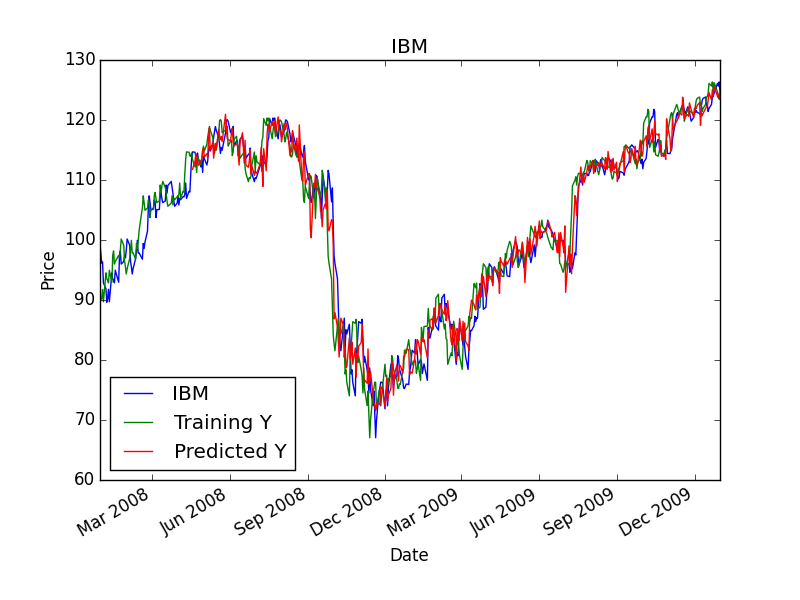
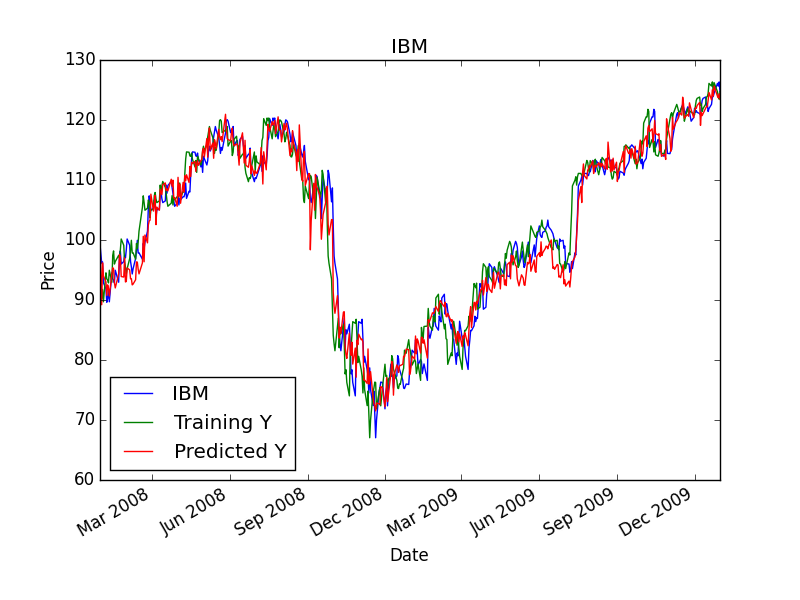
MC3 P2 Good in sample strat plots 1, 2, 3, 6, 7 done

diff --git a/mc3_p2/mc3_p2.py b/mc3_p2/mc3_p2.py
@@ -10,6 +10,112 @@ import LinRegLearner as lrl
 import KNNLearner as knn
 import BagLearner as bl
 
+
+def execute_order(cash, holdings, order, prices):
+    date = dt.datetime.strptime(order['Date'], '%Y-%m-%d')
+    symbol = order['Symbol']
+    order_type = order['Order']
+    shares = order['Shares']
+
+    new_holdings = holdings.copy()
+
+    if date in prices.index:
+        price = prices[[symbol]].loc[date][0]
+        if order_type == 'BUY':
+            new_cash = cash - (price * shares)
+            new_holdings[symbol] = holdings[symbol] + shares
+        else:
+            new_cash = cash + (price * shares)
+            new_holdings[symbol] = holdings[symbol] - shares
+
+    longs = 0
+    shorts = 0
+    for holding in new_holdings:
+        price = prices[[holding]].loc[date][0]
+        if (new_holdings[holding] > 0):
+            longs = longs + price * new_holdings[holding]
+        elif (new_holdings[holding] < 0):
+            shorts = shorts + price * new_holdings[holding]
+
+    leverage = (longs + abs(shorts)) / (longs + shorts + new_cash)
+    # if leverage > 2.0:
+    #     # print("rejected: ", date, symbol, order_type, shares, holdings, cash, leverage, longs, shorts)
+    #     return cash, holdings
+    # else:
+        # print("executed: ", date, symbol, order_type, shares, new_holdings, new_cash, leverage, longs, shorts)
+    return new_cash, new_holdings
+
+def print_stats(start_date, end_date, prices, portvals, sf=252.0, rfr=0.0, baseline_perf=0.3524):
+
+    cum_ret = portvals["Value"].iget(-1)/portvals["Value"].iget(0) - 1
+
+    dr = portvals.copy()
+    dr[1:] = portvals[1:].values / portvals[:-1].values - 1.0
+    dr = dr[1:]
+    avg_daily_ret = dr.mean()
+    std_daily_ret = dr.std()
+    sharpe_ratio = np.sqrt(sf) * np.mean(dr - rfr) / std_daily_ret
+    ev = portvals["Value"].iget(-1)
+
+    print "Date Range: {} to {}".format(start_date, end_date)
+    print
+    print "Sharpe Ratio of Fund: {}".format(sharpe_ratio)
+    # print "Sharpe Ratio of SPY : {}".format(sharpe_ratio_SPY)
+    print
+    print "Cumulative Return of Fund: {}".format(cum_ret)
+    # print "Cumulative Return of SPY : {}".format(cum_ret_SPY)
+    print
+    print "Standard Deviation of Fund: {}".format(std_daily_ret)
+    # print "Standard Deviation of SPY : {}".format(std_daily_ret_SPY)
+    print
+    print "Average Daily Return of Fund: {}".format(avg_daily_ret)
+    # print "Average Daily Return of SPY : {}".format(avg_daily_ret_SPY)
+    print
+    print "Final Portfolio Value: {}".format(portvals["Value"].iget(-1))
+
+    # print
+    # print "Performance vs baseline: {}".format(cum_ret / baseline_perf)
+    # return cum_ret/baseline_perf
+
+
+
+def compute_portvals(orders_file = "./orders/orders.csv", start_val = 1000000, baseline_perf=0.3524):
+    # this is the function the autograder will call to test your code
+    orders = pd.read_csv(orders_file, parse_dates=True)
+
+    start_date = orders['Date'].iloc[0]
+    end_date = orders['Date'].iloc[len(orders)-1]
+    symbols = sorted(set(orders['Symbol']))
+    prices = get_data(symbols, pd.date_range(start_date, end_date))
+
+    cash = start_val
+    holdings = {}
+    for symbol in symbols:
+        holdings[symbol] = 0
+
+    portvals = pd.DataFrame(index=prices.index, columns=['Value'], dtype=np.float64)
+    # print(type(portvals))
+
+    for index in portvals.index:
+
+        # If there are orders on this date, execute them
+        date_orders = orders[orders['Date'] == str(index.date())]
+        for row in date_orders.iterrows():
+            order = row[1]
+            cash, holdings = execute_order(cash, holdings, order, prices)
+
+        # Calculate port val for this date
+        portvals.ix[index] = cash
+        for symbol in holdings:
+            if (holdings[symbol] != 0):
+                price = prices[[symbol]].loc[index.date()][0]
+                portvals.ix[index] = portvals.ix[index] + (price * holdings[symbol])
+        # print(portvals.ix[index])
+
+    performance = print_stats(start_date, end_date, prices, portvals, baseline_perf=baseline_perf)
+
+    return portvals, performance
+
 def add_bb(prices, symbol):
     sma = pd.rolling_mean(prices[symbol], 20, 20)
     prices['bb_normed'] = (prices[symbol] - sma)/(2 * pd.rolling_std(prices[symbol], 20, 20))
@@ -86,10 +192,10 @@ if __name__ == "__main__":
     # test_rows = data.shape[0] - train_rows
 
     # separate out training and testing data
-    trainX = X['20071231':'20091231'][75:]
-    trainY = Y['20071231':'20091231'][75:]
-    testX = X['20091231':'20111231'][75:]
-    testY = Y['20091231':'20111231'][75:]
+    trainX = X['20071231':'20091231']
+    trainY = Y['20071231':'20091231']
+    testX = X['20091231':'20111231']
+    testY = Y['20091231':'20111231']
 
     # print testX.shape
     # print testY.shape
@@ -155,3 +261,91 @@ if __name__ == "__main__":
     # chart.set_ylabel("Price")
     # fig = chart.get_figure()
     # fig.savefig(symbol + "_plot1_oos.png")
+
+    order_chart = prices.plot(title=symbol)
+    order_chart.set_xlabel("Date")
+    order_chart.set_ylabel("Price")
+
+    order_cols = ("Date", "Symbol", "Order", "Shares")
+    orders = pd.DataFrame(columns=order_cols)
+
+    state = 'cash'
+
+    hold = 0
+    for i in xrange(predY.shape[0]):
+        today = prices.index[i]
+        # print(i, today, predY[i])
+
+        if hold > 0:
+            hold = hold - 1
+            continue
+
+        if state == 'cash':
+            if predY[i] > 0.01:
+                state = 'long'
+                chart.axvline(today, color="g")
+                orders.loc[len(orders)]=[today, symbol, "BUY", 100]
+                hold = 5
+            elif predY[i] < -0.01:
+                state = 'short'
+                chart.axvline(today, color="r")
+                orders.loc[len(orders)]=[today, symbol, "SELL", 100]
+                hold = 5
+
+        elif state == 'short':
+            if predY[i] > 0 and predY[i] < 0.01:
+                state = 'cash'
+                chart.axvline(today, color="k")
+                orders.loc[len(orders)]=[today, symbol, "BUY", 100]
+                hold = 5
+            elif predY[i] > 0.01:
+                state = 'long'
+                chart.axvline(today, color="g")
+                orders.loc[len(orders)]=[today, symbol, "BUY", 100]
+                orders.loc[len(orders)]=[today, symbol, "BUY", 100]
+                hold = 5
+
+        else: #long
+            if predY[i] < 0.01 and predY[i] > 0:
+                state = 'cash'
+                chart.axvline(today, color="k")
+                orders.loc[len(orders)]=[today, symbol, "SELL", 100]
+                hold = 5
+            elif predY[i] < -0.01:
+                state = 'short'
+                chart.axvline(today, color="r")
+                orders.loc[len(orders)]=[today, symbol, "SELL", 100]
+                orders.loc[len(orders)]=[today, symbol, "SELL", 100]
+                hold = 5
+
+
+    if state == 'long':
+        orders.loc[len(orders)]=[today, symbol, "SELL", 100]
+        chart.axvline(today, color="k")
+    elif state == 'short':
+        orders.loc[len(orders)]=[today, symbol, "BUY", 100]
+        chart.axvline(today, color="k")
+
+
+    fig = chart.get_figure()
+    fig.savefig(symbol + '_plot2.png')
+    # plt.show()
+
+    baseline_perf=0.3524
+    if len(orders) > 1:
+        orders.to_csv('orders.csv', index=False)
+        portvals, performance = compute_portvals('orders.csv', start_val=10000, baseline_perf=baseline_perf)
+    else:
+        performance = 0.0
+
+    print(performance)
+
+    start_date = orders['Date'].iloc[0]
+    end_date = orders['Date'].iloc[len(orders)-1]
+    prices_SPX = get_data(['$SPX'], pd.date_range(start_date, end_date), addSPY=False)
+    prices_SPX.dropna(inplace=True)
+
+    port_val_normed = portvals / portvals.ix[0]
+    prices_SPX_normed = prices_SPX / prices_SPX.ix[0]
+    df_temp = pd.concat([port_val_normed, prices_SPX_normed], keys=['Portfolio_' + symbol, '$SPX'], axis=1)
+    plot_data(df_temp)
